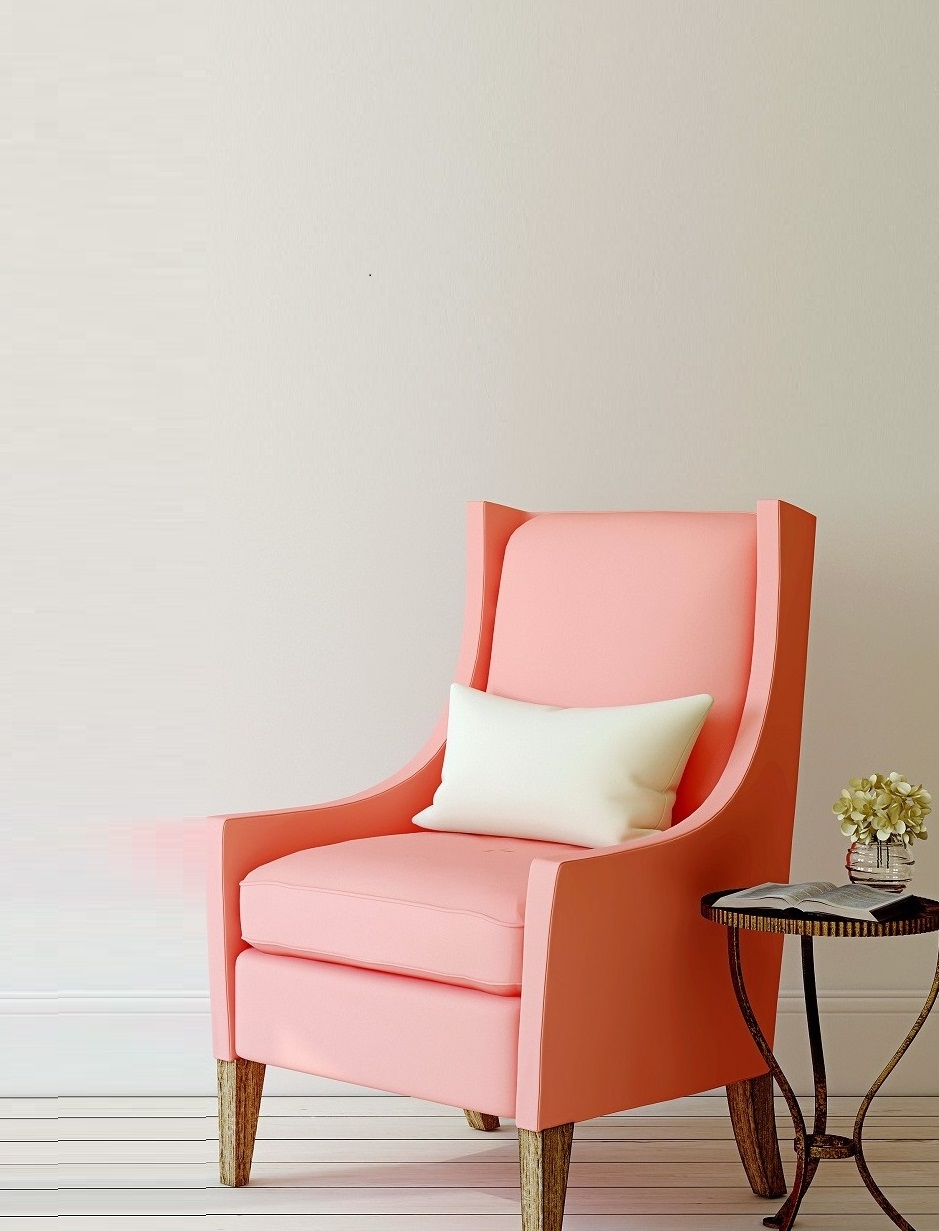
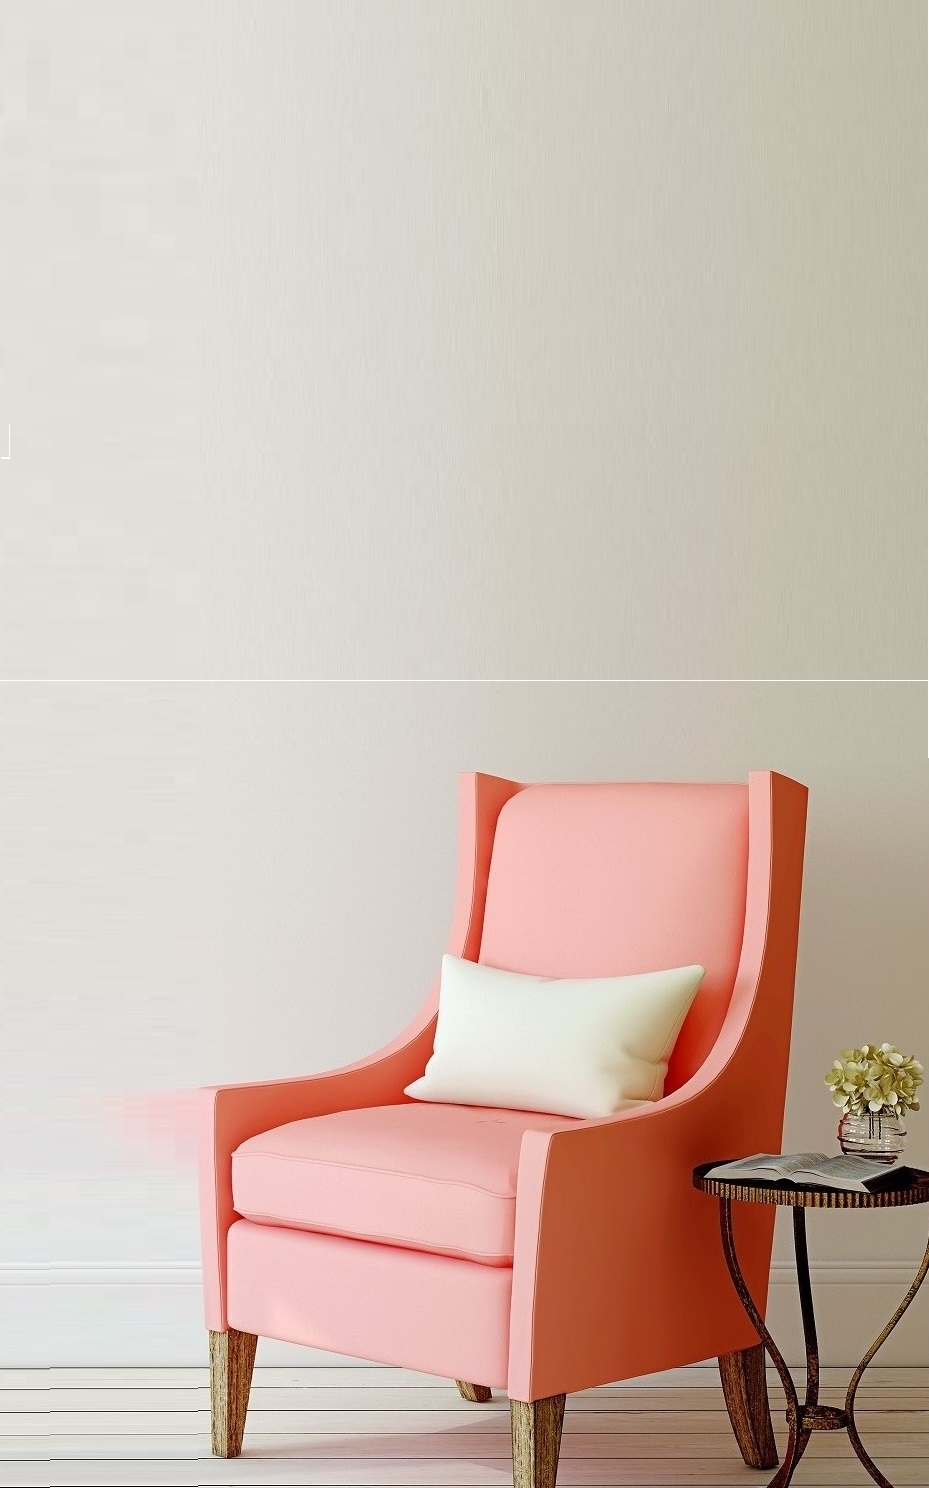
minor issues

Changed region(s): [[0.0, 0.0, 1.0, 1.0]]

diff --git a/resources/css/main.css b/resources/css/main.css
@@ -408,15 +408,15 @@ nav ul li:nth-child(6) {
         font-size: 15px;
     }
     .carousel-item {
-        height: 90vh;
+        height: 80vh;
         background-image: url(../images/slideshow/background.png);
     }
     .carousel-item .container {
         background-size: contain;
         background-repeat: no-repeat;
-        height: 90%;
-        margin-top: 5%;
-        margin-bottom: 5%;
+        height: 100%;
+        margin-top: 2vh;
+        margin-bottom: 0%;
     }
     .carousel-item:nth-child(1) .container {
         background-image: url(../images/slideshow/onemobile.jpg);
